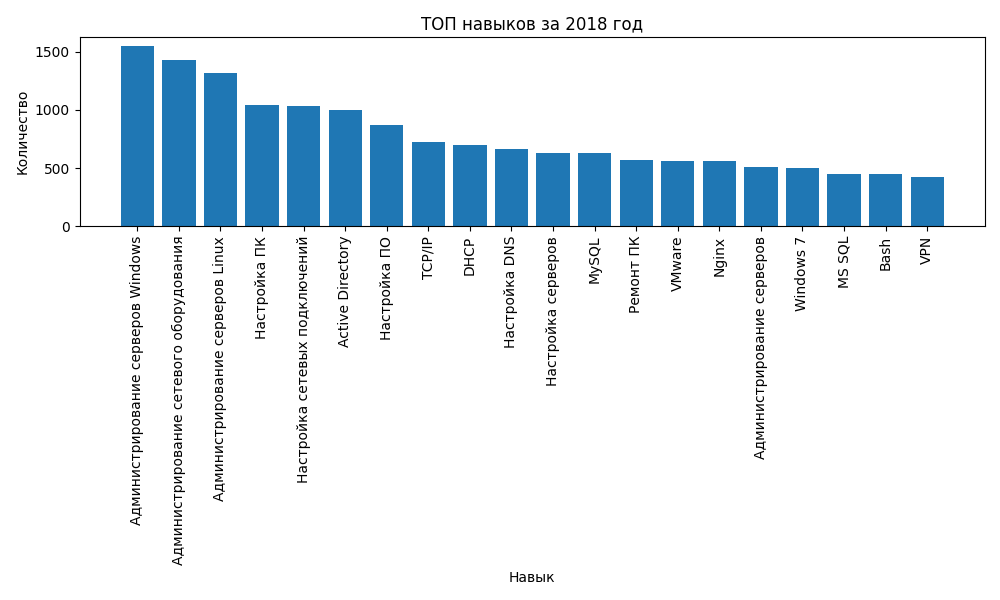
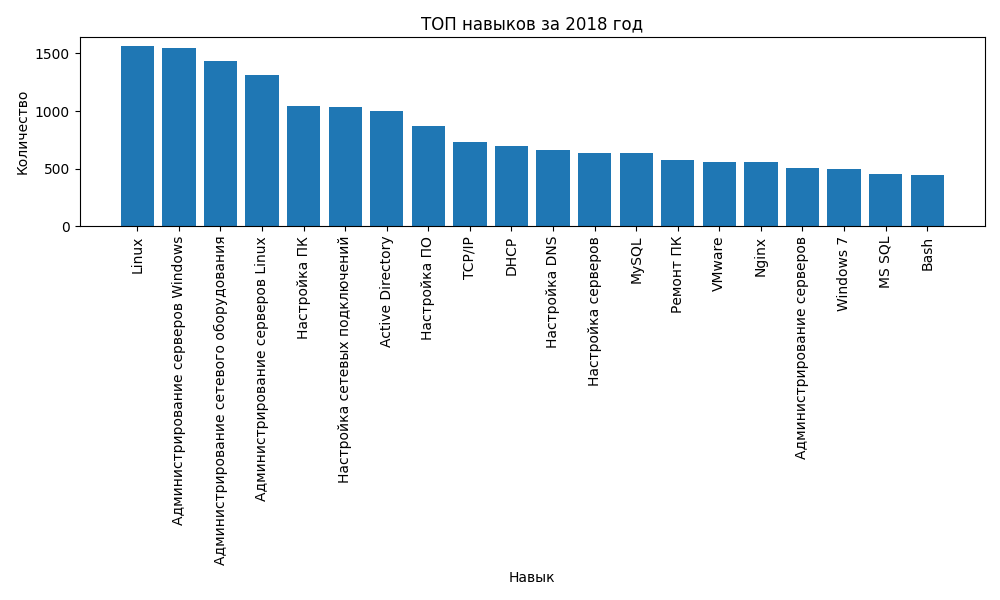
edit top20

diff --git a/analytics/templates/analytics/index.html b/analytics/templates/analytics/index.html
@@ -5,7 +5,7 @@
 {% block content %}
 <h2>Описание профессии</h2>
 <div class="container">
-    <img src="{% static 'img/sis-admin-1.jpg' %}" height="466px" width="700px" alt="Системный администратор">
+    <img src="{% static 'img/sis-admin-1.jpg' %}" alt="Системный администратор">
     <p>Системный администратор (сисадмин) — это специалист, отвечающий за настройку, обслуживание и поддержку компьютерных систем и сетевой инфраструктуры в организации. Его основная задача заключается в обеспечении бесперебойной работы серверов, рабочих станций и сетевых устройств. Сисадмин устанавливает и настраивает операционные системы, программное обеспечение и сетевые компоненты, а также следит за безопасностью данных и защитой информации от несанкционированного доступа. Он также отвечает за резервное копирование данных, восстановление системы после сбоев и решение технических проблем пользователей. Важными качествами для успешной работы в этой профессии являются аналитическое мышление, внимание к деталям и способность быстро реагировать на возникающие проблемы. Системные администраторы играют ключевую роль в поддержании IT-инфраструктуры компании, что делает их незаменимыми в современных организациях.</p>
 </div>
 {% endblock %}

diff --git a/analytics/management/commands/create_top_20_skills.py b/analytics/management/commands/create_top_20_skills.py
@@ -26,8 +26,7 @@ class Command(BaseCommand):
         for year, skills in skills_by_year.items():
             if skills:  # Проверяем, есть ли навыки для данного года
                 skill_counts = Counter(skills)  # Подсчет частоты навыков
-                top_skills = skill_counts.most_common(21)
-                top_skills = top_skills[1:]  # Убираем первый мусорный элемент с общим количеством
+                top_skills = skill_counts.most_common(20)
                 top_skills_by_year[year] = top_skills
 
         # Исключаем годы без навыков и сохраняем данные в модель Skill

diff --git a/analytics/urls.py b/analytics/urls.py
@@ -4,7 +4,7 @@ from .views import index, statistics, demand, geography, skills, latest_vacancie
 
 urlpatterns = [
     path('', index, name='home'),
-path('demand/', demand, name='demand'),
+    path('demand/', demand, name='demand'),
     path('statistics/', statistics, name='statistics'),
     path('geography/', geography, name='geography'),
     path('skills/', skills, name='skills'),

diff --git a/my_project/settings.py b/my_project/settings.py
@@ -15,7 +15,7 @@ SECRET_KEY = 'django-insecure-6g6q9er*=y6^$af(^fkdt!1e37aonlk@(2pvx!95@b7rx+3tga
 # SECURITY WARNING: don't run with debug turned on in production!
 DEBUG = True
 
-ALLOWED_HOSTS = []
+ALLOWED_HOSTS = ['*']
 
 
 # Application definition
